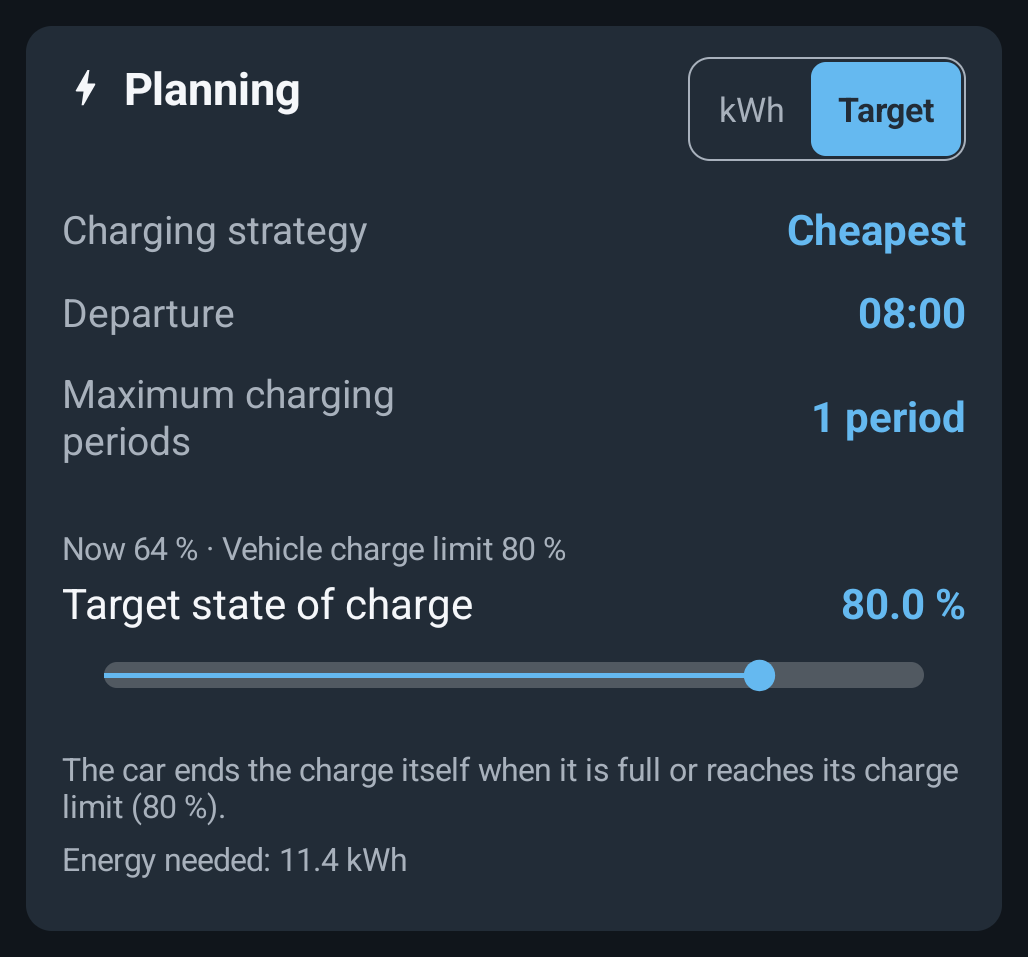
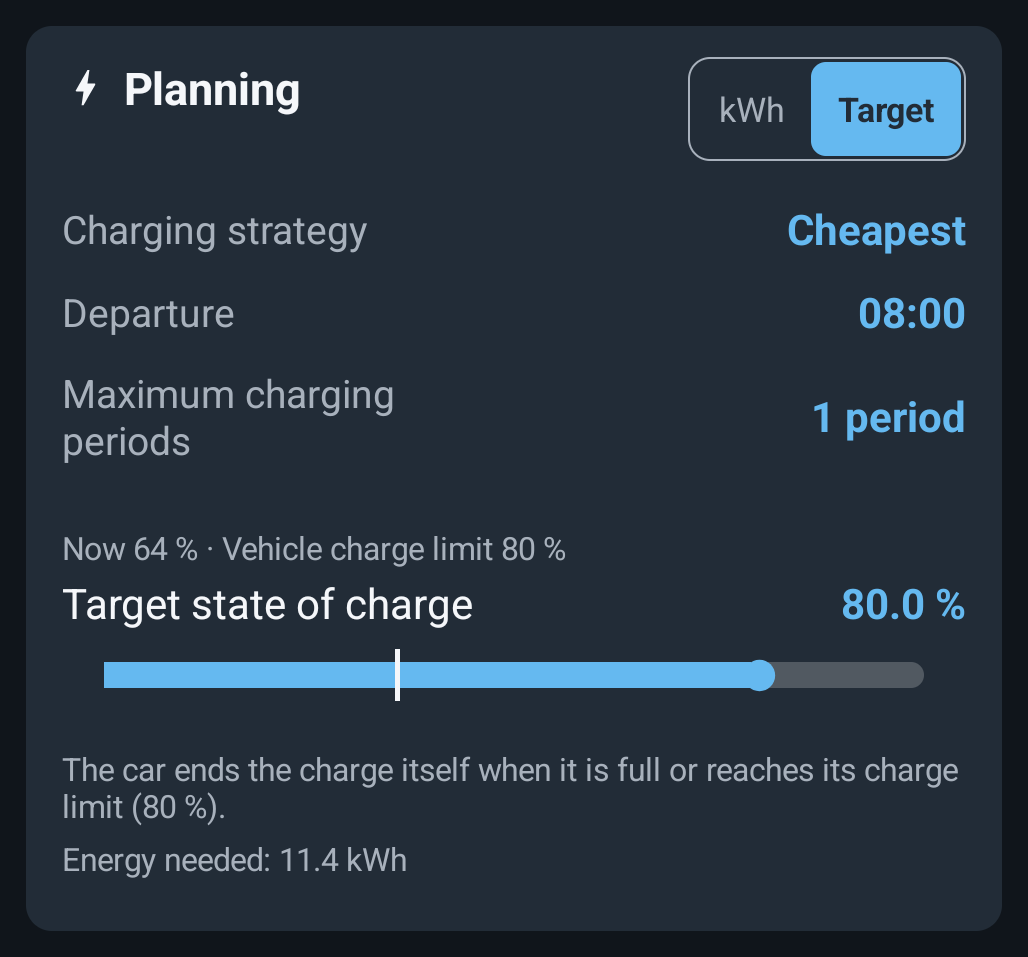
Give every slider track layer the track's thickness, so the fill is as thick as the track on newer Android, and retake the slider pictures.

Changed region(s): [[0.0934, 0.6667, 0.7471, 0.7273]]

diff --git a/app/src/main/java/se/sensnology/spotnav/ui/common/Sliders.kt b/app/src/main/java/se/sensnology/spotnav/ui/common/Sliders.kt
@@ -1,6 +1,6 @@
 package se.sensnology.spotnav.ui.common
 
-import android.graphics.drawable.ClipDrawable
+import android.graphics.drawable.DrawableWrapper
 import android.graphics.drawable.GradientDrawable
 import android.graphics.drawable.LayerDrawable
 import android.view.Gravity
@@ -42,7 +42,9 @@ internal fun ViewScope.thickenTrack(seek: SeekBar): Int {
     var resized = false
     for (index in 0 until track.numberOfLayers) {
         val layer = track.getDrawable(index) ?: continue
-        val shape = (layer as? ClipDrawable)?.drawable ?: layer
+        // The fill sits in a clip on older platforms and in a scale on newer ones: both are wrappers, and
+        // the shape inside is what is thickened, or the fill stays a thin line over a thick track.
+        val shape = (layer as? DrawableWrapper)?.drawable ?: layer
         if (shape is GradientDrawable) {
             // No width of its own: the shape spans the layer it sits in, which is what the
             // platform's own `<size>` leaves it doing.
@@ -50,6 +52,11 @@ internal fun ViewScope.thickenTrack(seek: SeekBar): Int {
             shape.setCornerRadius(thickness / 2f)
             resized = true
         }
+        // A layer can carry a height of its own from the platform's drawable, which wins over its shape's
+        // size: the newer track gives the fill one, so only the background thickened. Every layer gets the
+        // track's thickness, centred, so the fill is as thick as the track it fills.
+        track.setLayerHeight(index, thickness)
+        track.setLayerGravity(index, Gravity.FILL_HORIZONTAL or Gravity.CENTER_VERTICAL)
     }
     return if (resized) thickness else track.intrinsicHeight.takeIf { it > 0 } ?: thickness
 }

diff --git a/app/src/main/java/se/sensnology/spotnav/ui/charging/TargetSocController.kt b/app/src/main/java/se/sensnology/spotnav/ui/charging/TargetSocController.kt
@@ -65,7 +65,7 @@ internal class TargetSocController(scope: ViewScope) : ViewScope(scope) {
             .takeIf { it > 0 } ?: dp(SLIDER_TRACK_DP)
         // One more layer of the track itself, never a wrapper around it: the slider finds its fill and tints
         // it by the track's own `android.R.id.progress` layer, which a wrapper would hide.
-        val layers = track.mutate() as? LayerDrawable
+        val layers = track as? LayerDrawable
         if (layers != null) {
             val index = layers.addLayer(shading)
             // The shading is drawn in the same rect the track paints itself in, which is inset

diff --git a/app/src/main/java/se/sensnology/spotnav/ui/charging/EnergyController.kt b/app/src/main/java/se/sensnology/spotnav/ui/charging/EnergyController.kt
@@ -82,7 +82,7 @@ internal class EnergyController(scope: ViewScope) : ViewScope(scope) {
         val trackHeight = ((track as? LayerDrawable)?.getDrawable(0)?.intrinsicHeight ?: 0)
             .takeIf { it > 0 } ?: dp(SLIDER_TRACK_DP)
         val mark = FullMarkDrawable(dark, dp(2).toFloat(), dp(MARK_REACH_DP).toFloat())
-        val layers = track.mutate() as? LayerDrawable
+        val layers = track as? LayerDrawable
         if (layers != null) {
             val index = layers.addLayer(mark)
             layers.setLayerInset(index, trackInsets.left, 0, trackInsets.right, 0)
